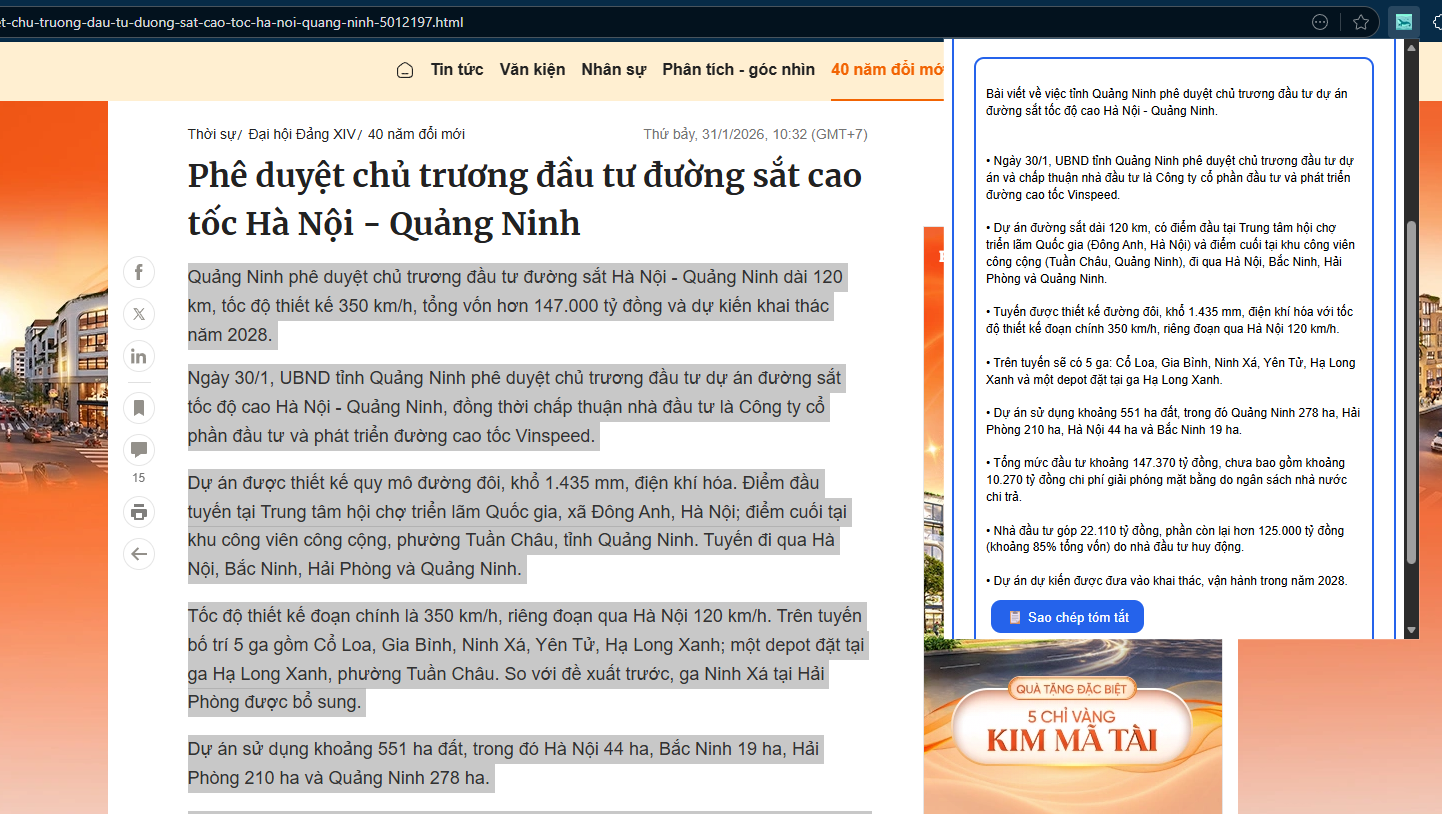
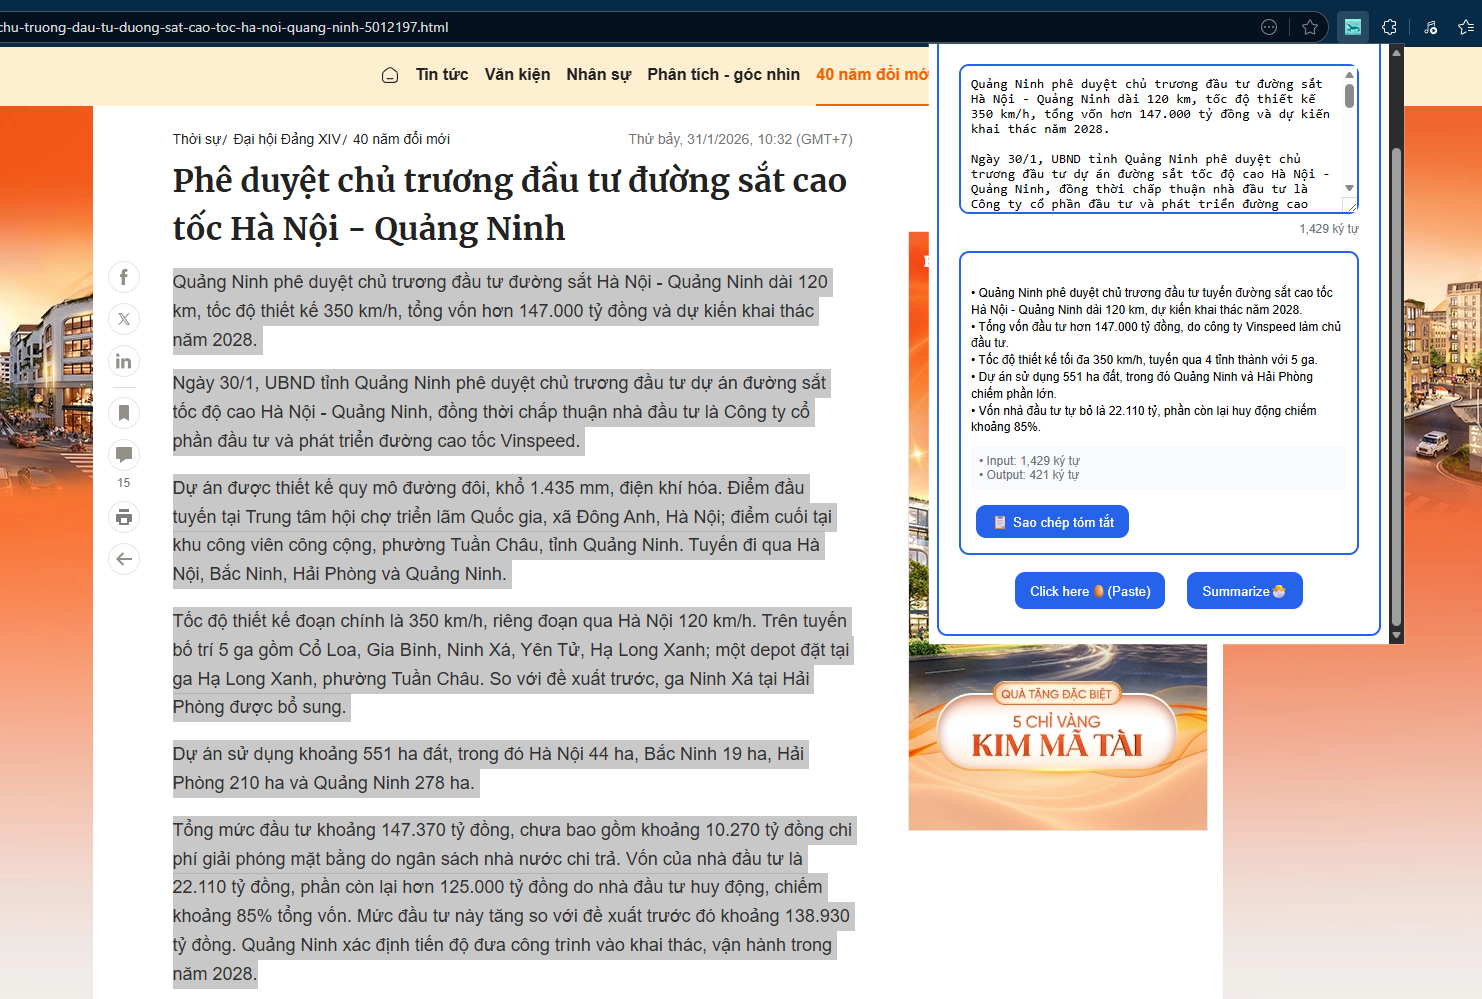
Promote File

diff --git a/src/popup.js b/src/popup.js
@@ -7,7 +7,7 @@ function countCharacters(text) {
 function calculateCompression(original, summary) {
     if (!original || original.length === 0) return 0;
     const reduction = 100 - (summary.length * 100 / original.length);
-    return Math.round(reduction * 10) / 10; // Làm tròn 1 số thập phân
+    return Math.round(reduction * 10) / 10;
 }
 
 function showProgress() {
@@ -76,11 +76,10 @@ document.addEventListener('DOMContentLoaded', function() {
             console.log("Paste button clicked!");
             
             try {
-                // Đọc text từ clipboard
+
                 const text = await navigator.clipboard.readText();
                 console.log("Text from clipboard:", text.substring(0, 50) + "...");
-                
-                // Hiển thị vào textarea
+
                 document.getElementById('textInput').value = text;
                 const textInput = document.getElementById('textInput');
                 const charCount = document.getElementById('charCount');
@@ -119,7 +118,7 @@ document.addEventListener('DOMContentLoaded', function() {
         
             
             if (text.trim() === "") {
-                resultDiv.innerHTML = "<p class='error-message'>Vui lòng nhập văn bản</p>";
+                resultDiv.innerHTML = "<p class='error-message'>Insert text, please.</p>";
                 return;
             }
             
@@ -136,21 +135,16 @@ document.addEventListener('DOMContentLoaded', function() {
                     }
                 }, 300);
                 
-                // Gọi API
+                // Call API
                 const summary = await callDeepSeekAPI(text);
                 const originalLength = countCharacters(text);
                 const summaryLength = countCharacters(summary);
     
-                // Dừng interval
                 clearInterval(progressInterval);
-                
-                // Hoàn thành progress
                 updateProgress(100);
                 
-                // Delay nhỏ để người dùng thấy 100%
                 setTimeout(() => {
                     hideProgress();
-                    // Xử lý text trước khi hiển thị
                     const formattedSummary = summary
                         .trim() 
                         .replace(/^\s*\n+/g, '') 
@@ -168,14 +162,14 @@ document.addEventListener('DOMContentLoaded', function() {
                         </div>
                         
                         <button id="copySummaryBtn" style="margin-top: 15px; padding: 8px 15px;">
-                            📋 Sao chép tóm tắt
+                            📋 copy
                         </button>
                     `;                    
 
                     document.getElementById('copySummaryBtn').addEventListener('click', async function() {
                         try {
                             await navigator.clipboard.writeText(summary);
-                            alert("Đã sao chép tóm tắt!");
+                            alert("Copied!");
                         } catch (err) {
                             console.error("Lỗi khi sao chép:", err);
                         }

diff --git a/promote/large.html b/promote/large.html
@@ -1,0 +1,43 @@
+<!DOCTYPE html>
+<html>
+<body style="margin: 0; padding: 0;">
+<div style="width: 920px; height: 680px; background: linear-gradient(135deg, #0f172a, #1e40af); display: flex;">
+    <!-- Left side: Graphic -->
+    <div style="flex: 1; background: #010307; display: flex; align-items: center; justify-content: center;">
+        <div style="text-align: center;">
+            <div style="font-size: 80px; color: white; font-weight: bold; font-family: Arial;">Sofia</div>
+            <div style="font-size: 24px; color: #3089f7; margin-top: 10px;">AI Text Summarizer</div>
+        </div>
+    </div>
+    
+    <!-- Right side: Text -->
+    <div style="flex: 1; padding: 40px; color: white; font-family: Arial;">
+        <h1 style="font-size: 48px; margin-bottom: 10px;">Sofia</h1>
+        <p style="font-size: 24px; color: #93c5fd; margin-bottom: 30px;">Tóm tắt văn bản thông minh</p>
+        
+        <div style="margin-top: 30px;">
+            <div style="display: flex; align-items: center; margin-bottom: 15px;">
+                <div style="width: 8px; height: 8px; background: #60a5fa; border-radius: 50%; margin-right: 10px;"></div>
+                <span>🤖 AI thông minh </span>
+            </div>
+            <div style="display: flex; align-items: center; margin-bottom: 15px;">
+                <div style="width: 8px; height: 8px; background: #60a5fa; border-radius: 50%; margin-right: 10px;"></div>
+                <span>🎯 Bullet points rõ ràng</span>
+            </div>
+            <div style="display: flex; align-items: center; margin-bottom: 15px;">
+                <div style="width: 8px; height: 8px; background: #60a5fa; border-radius: 50%; margin-right: 10px;"></div>
+                <span>🌐 Hỗ trợ Input nhiều ngôn ngữ</span>
+            </div>
+            <div style="display: flex; align-items: center;">
+                <div style="width: 8px; height: 8px; background: #60a5fa; border-radius: 50%; margin-right: 10px;"></div>
+                <span>⚡ Xử lý nhanh chóng</span>
+            </div>
+        </div>
+        
+        <div style="margin-top: 40px; font-size: 14px; color: #cbd5e1;">
+            Cài đặt miễn phí trên Extension Store
+        </div>
+    </div>
+</div>
+</body>
+</html>

diff --git a/promote/small.html b/promote/small.html
@@ -1,0 +1,9 @@
+<!DOCTYPE html>
+<html>
+<body style="margin: 0; padding: 0;">
+<div style="width: 440px; height: 280px; background: linear-gradient(135deg, #215fe4, #31f14b); display: flex; flex-direction: column; justify-content: center; align-items: center; color: white; font-family: Arial;">
+    <div style="font-size: 42px; font-weight: bold; margin-bottom: 10px;">Sofia</div>
+    <div style="font-size: 20px;">AI Text Summarizer</div>
+</div>
+</body>
+</html>

diff --git a/src/popup.html b/src/popup.html
@@ -30,7 +30,7 @@
         Đang xử lý: <span id="progressPercent" class="progress-percent">0%</span>
     </div>
     <p style="font-size: 12px; color: #9ca3af; margin-top: 5px;">
-        Đang tóm tắt với AI...
+        Đang tóm tắt...
     </p>
 </div>
 

diff --git a/README.md b/README.md
@@ -7,12 +7,15 @@
 
 A smart browser extension that summarizes long texts using AI. Supports Vietnamese and English with clean bullet-point formatting.
 
+## Introduce
+promote/small.png
+
 ## ✨ Features
 
 - ** AI-Powered Summaries**: Uses DeepSeek AI for accurate text summarization
 - ** Smart Clipboard**: One-click paste from clipboard
 - ** Bullet-Point Format**: Clean, structured summaries with bullet points
-- ** Vietnamese Support**: Optimized for Vietnamese text processing
+- ** Support Multiple Languages**: Input any language, output Vietnamese
 - ** Fast Processing**: Cloudflare Worker backend for quick responses
 - ** Privacy Focused**: Your data is not stored or shared
 
